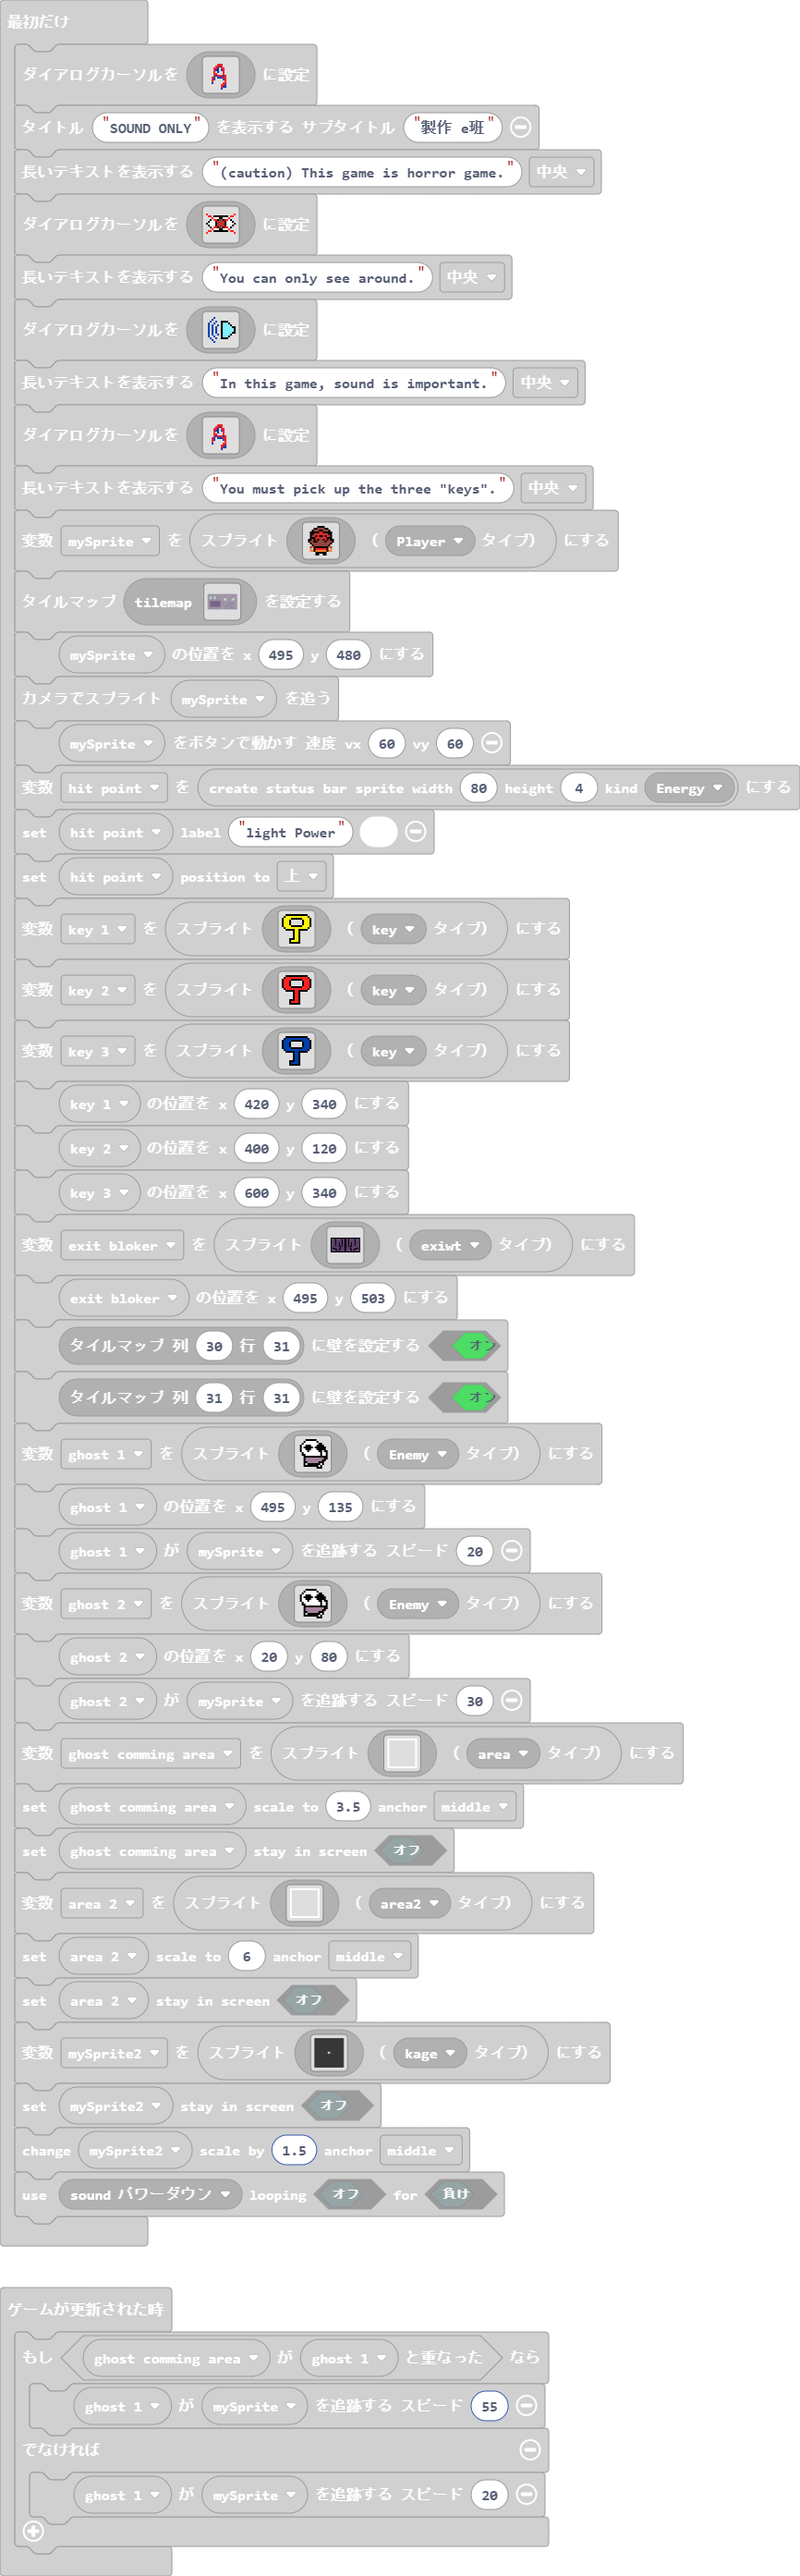
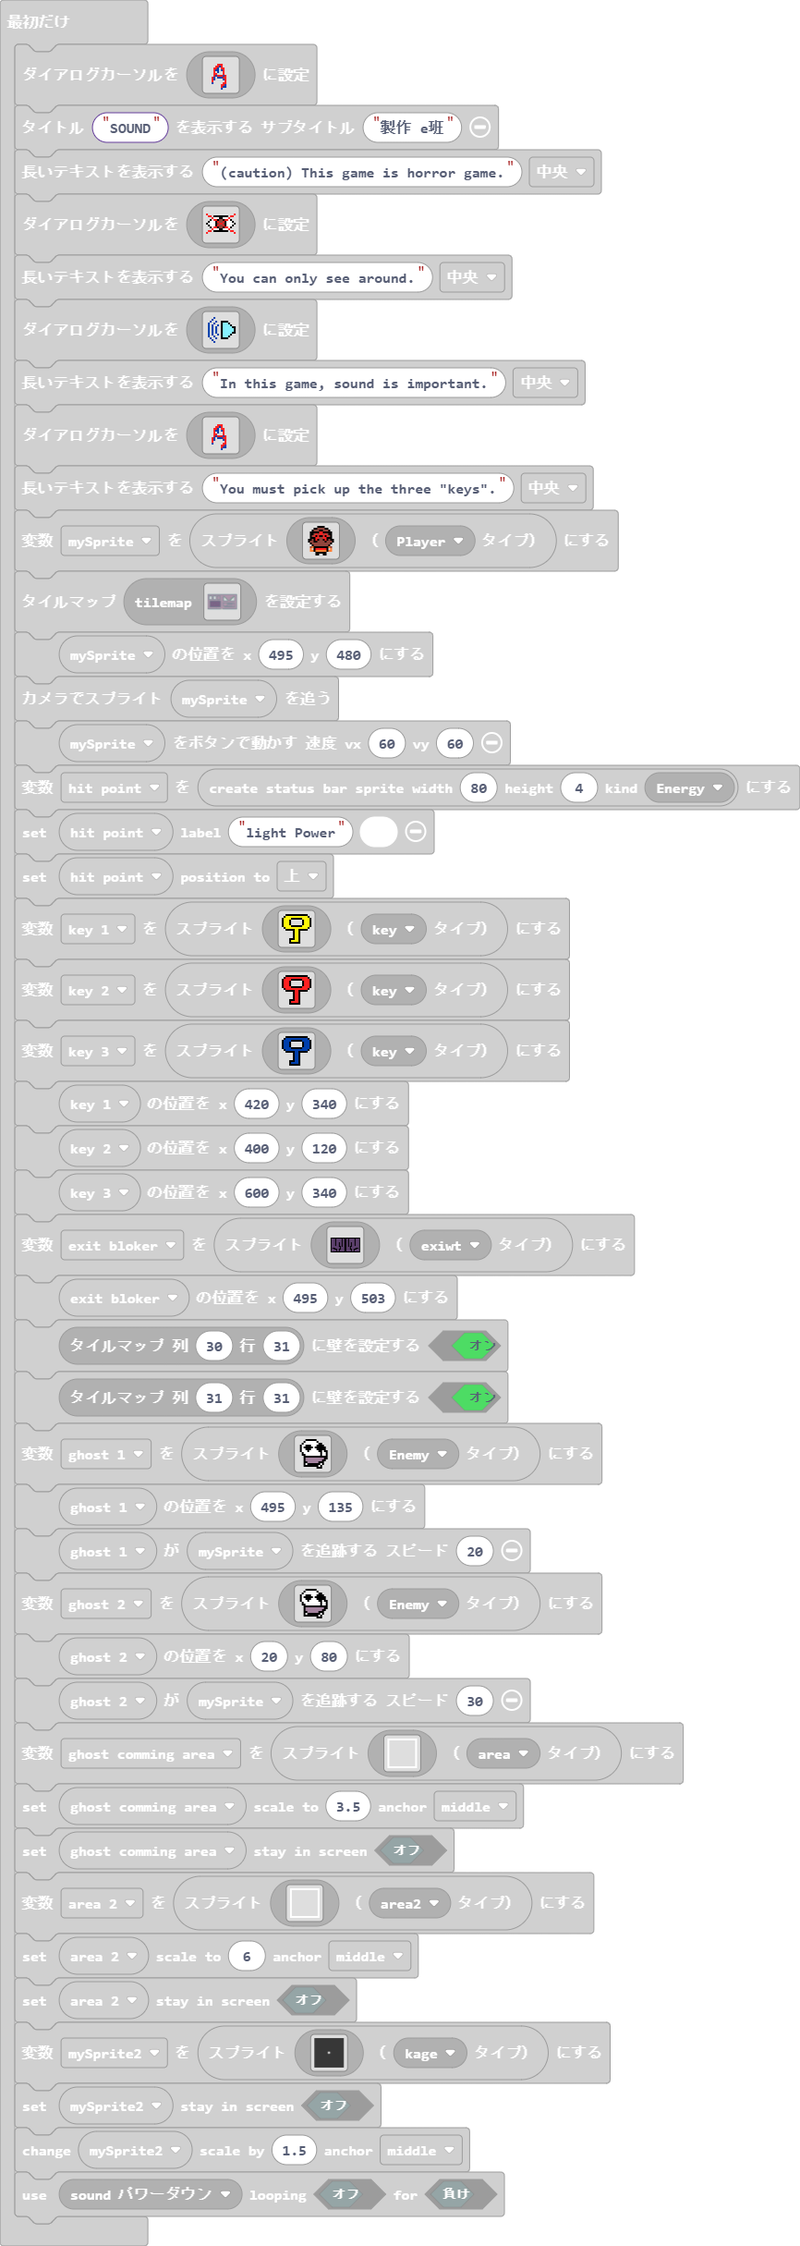
更新 main.blocks, main.ts

diff --git a/main.ts b/main.ts
@@ -173,7 +173,7 @@ game.setDialogCursor(img`
     . . . . . . . . 2 8 8 . . . . . 
     . . . . . . . . 8 . . . . . . . 
     `)
-game.splash("SOUND ONLY", "製作　e班")
+game.splash("SOUND", "製作　e班")
 game.showLongText("(caution) This game is horror game.", DialogLayout.Center)
 game.setDialogCursor(img`
     . . . . . . . . . . . . . . . . 
